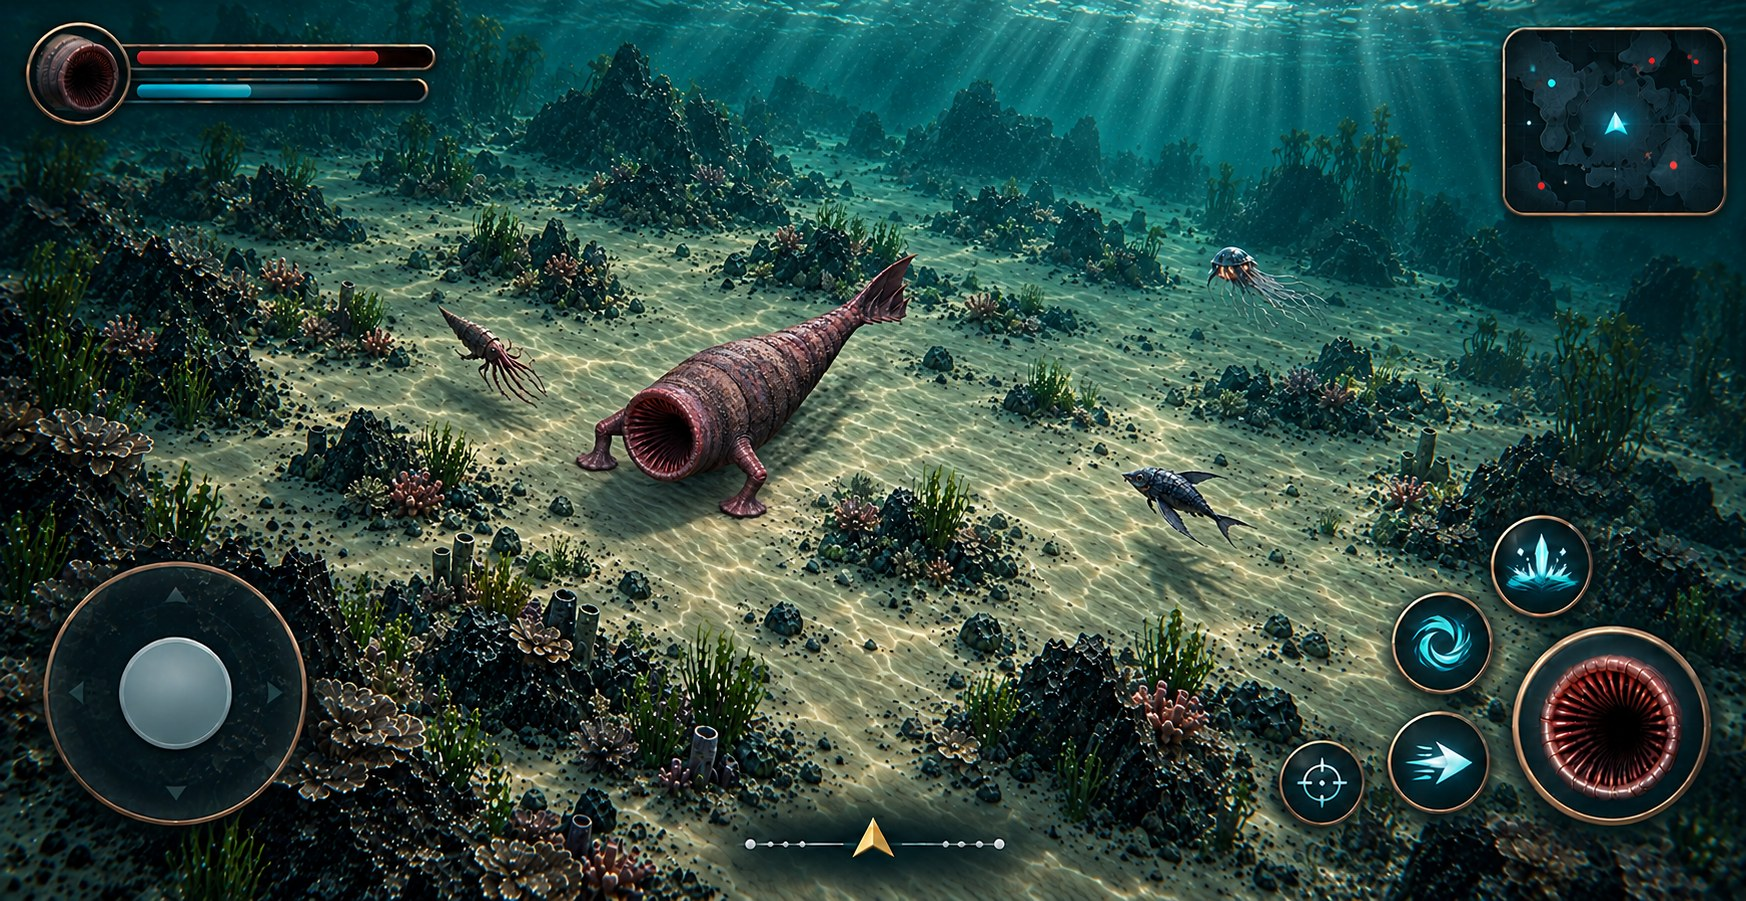
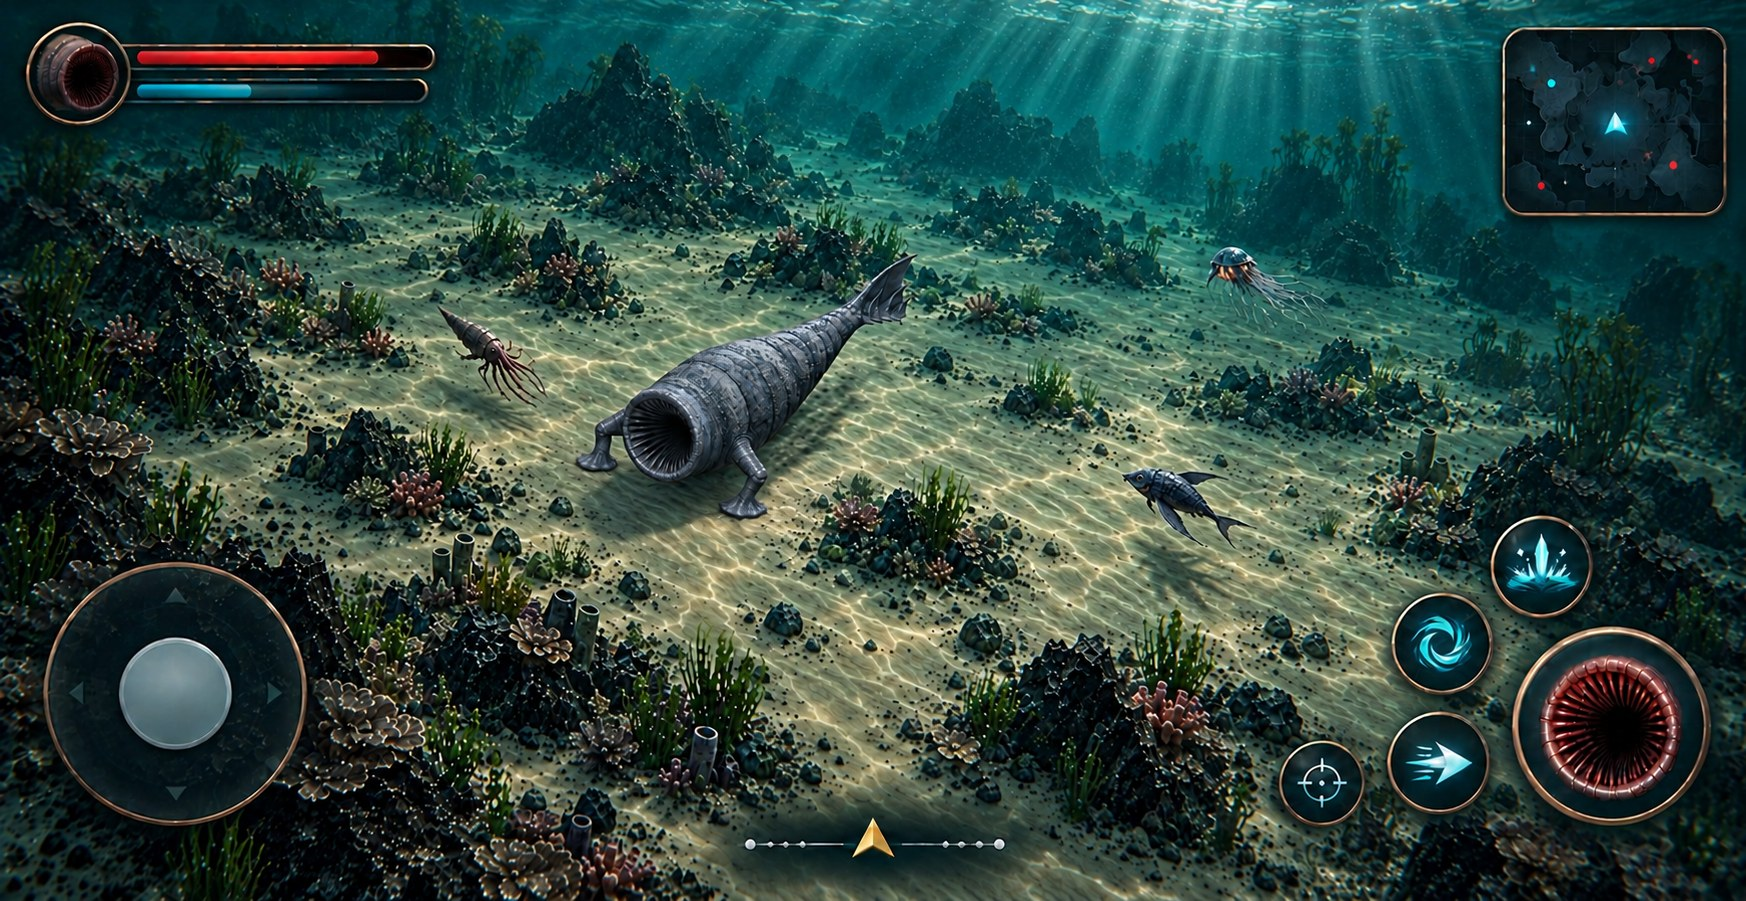
Make Sea Eater gray in UI concept

diff --git a/docs/ART-LOG.md b/docs/ART-LOG.md
@@ -48,3 +48,5 @@
 | `docs/concept/set4_ui.jpg` | หน้าจอ iPad แนวนอนมุมสูงเฉียงใต้ทะเลเขียวฟ้ามืดสมจริง Sea Eater ไม่มีตา ปากกลวง ตัวเป็นปล้อง มีขาหน้าสองข้างและหางครีบ ใหญ่กว่ามอนสเตอร์รอบตัว; แถบ HP/EXP ซ้ายบน มินิแมปขวาบน จอยซ้ายล่าง ปุ่มโจมตี/สกิล/เป้าขวาล่าง และตัวนำทางกลางล่าง เว้นช่องระหว่างปุ่ม ไม่มีตัวหนังสือ โลโก้ หรือลายน้ำ |
 
 ภาพนี้เป็นคอนเซปต์รอผู้ใช้เลือก ยังไม่ได้นำไปใช้ในเกม การจัดวางเป็นภาพประกอบ ต้องทดสอบขนาดปุ่มและประสิทธิภาพบน iPad จริงเมื่อมีการพัฒนาภายหลัง
+
+ปรับสี 2026-11-01: ใช้ OpenAI Image Generation แก้ภาพ `set4_ui.jpg` ให้ผิว ลำตัว หาง และขาหน้าของ Sea Eater เป็นสีเทาตามคำขอ โดยคงรูปร่างและภาพรวม แล้วแปลง JPEG ด้วย Pillow คุณภาพ 88 ภาพยังรอผู้ใช้เลือก
